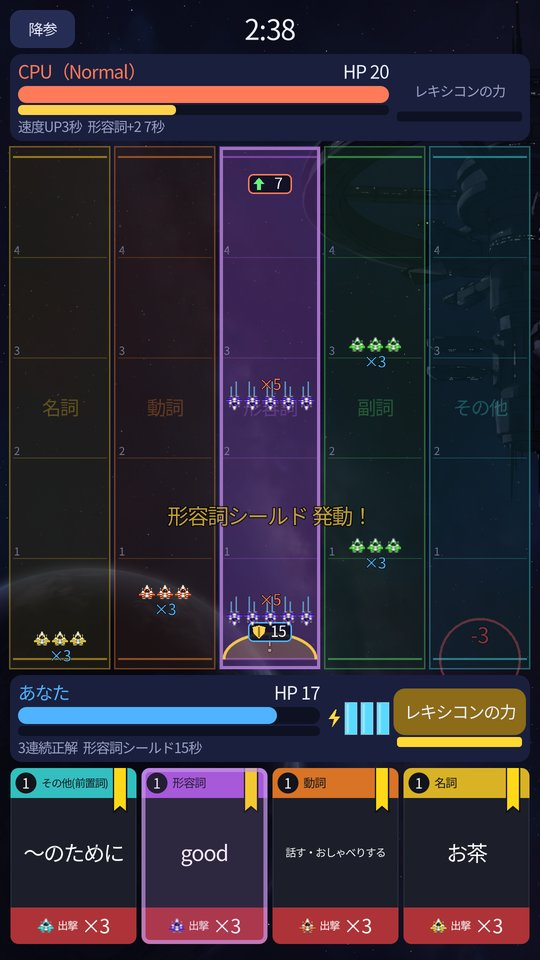
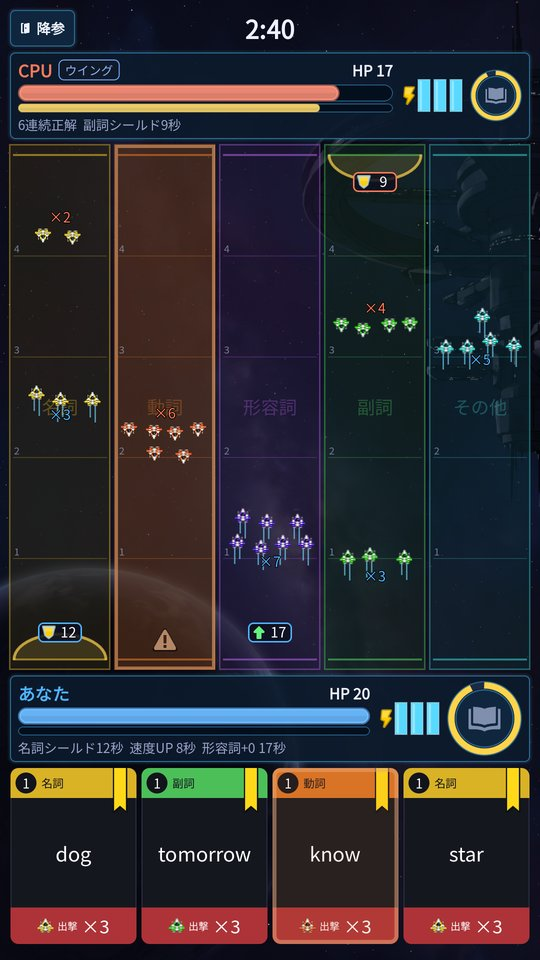
LexiconGalaxy: refresh screenshots and describe Wi-Fi battle and rank
Replace the three screenshots with captures of the refreshed UI, and
update the feature list: five CPU levels (Novice to Ace), Wi-Fi battle
between two devices, and the player rank.

diff --git a/lexicongalaxy.html b/lexicongalaxy.html
@@ -161,7 +161,7 @@
 
   <img class="hero" src="assets/lexicongalaxy-title.jpg" alt="LexiconGalaxy タイトル画像" width="1024" height="500">
 
-  <p>英単語を覚えたら、宇宙で戦おう。英単語クイズに正解するとスターシップが出撃する、縦画面のリアルタイム英単語バトルゲームです。名詞・動詞・形容詞・副詞・その他（前置詞や接続詞など）の5本のレーンで、CPUの艦隊と陣地を奪い合います。</p>
+  <p>英単語を覚えたら、宇宙で戦おう。英単語クイズに正解するとスターシップが出撃する、縦画面のリアルタイム英単語バトルゲームです。名詞・動詞・形容詞・副詞・その他（前置詞や接続詞など）の5本のレーンで、CPUの艦隊や、同じWi-Fiにつないだ友だちと陣地を奪い合います。</p>
 
   <h2>遊び方</h2>
   <p>手札のカードを上にスワイプすると、画面の中央に英単語クイズが大きく現れます。4つの選択肢から正しい意味を選べば、カードのパワーと同じ数のスターシップが、カードの品詞のレーンへ飛び出していきます。同じレーンで相手とぶつかると、機数の多い方が生き残って進軍を続けます。相手の陣地のHPを0にすればKO勝ち。制限時間は3分です。</p>
@@ -174,7 +174,9 @@
     <li>連続正解でコンボゲージを溜めると、シールド・スピードアップ・パワーアップ・即時破壊・品詞封印から能力を1つ選んで発動</li>
     <li>デッキの単語の半分以上に正解すると「レキシコンの力」が使え、デッキの単語が一新されてカードもパワーアップ</li>
     <li>小学校レベルから大学受験対策まで、7段階の英単語レベル</li>
-    <li>対戦相手のCPUは Easy / Normal / Hard の3段階</li>
+    <li>対戦相手のCPUは ノービス・ルーキー・ウイング・ベテラン・エース の5段階</li>
+    <li>同じWi-Fiにつないだ2台の端末で、友だちとリアルタイム対戦（Wi-Fi対戦）</li>
+    <li>正解率と解答スピードから、あなたのランク（ノービス〜エース）が決まります</li>
   </ul>
 
   <div class="shots">
